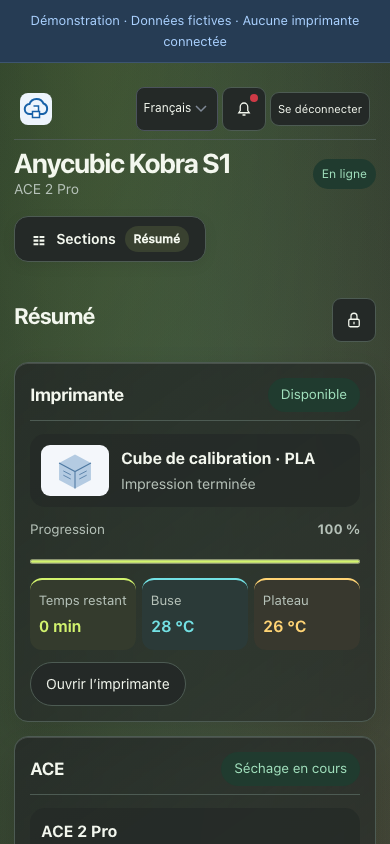
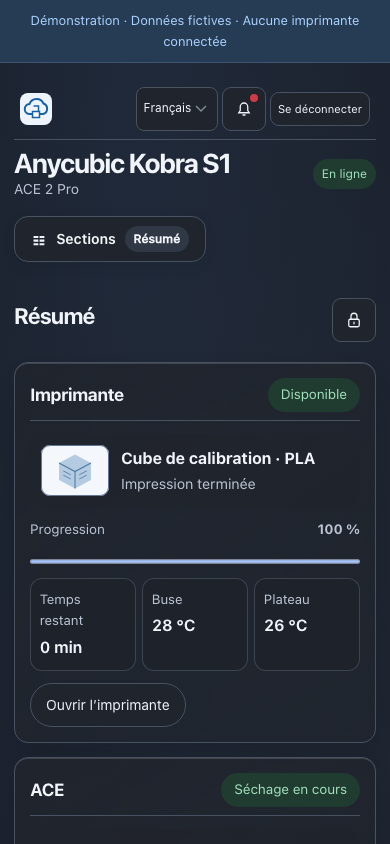
Recomposer la palette et les onglets de Prisme
Fixes #281

diff --git a/web/css/workshop-styles.css b/web/css/workshop-styles.css
@@ -117,14 +117,12 @@
 
 /* Les surfaces restent assez opaques pour lire les mesures au-dessus des reflets. */
 :root[data-style="prism"] {
-  --bg: light-dark(#e9eee5, #0e1110);
-  --surface: light-dark(#fcfdf9, #242927);
-  --text: light-dark(#19241d, #f3f7ee);
-  --muted: light-dark(#46584c, #b6c2b9);
-  --line: light-dark(#b5c5b7, #4d5b53);
-  --accent: light-dark(#426418, #d2f36e);
-  --prism-cyan: light-dark(#12656c, #73e1e4);
-  --prism-amber: light-dark(#805016, #ffd475);
+  --bg: light-dark(#eef1f6, #101217);
+  --surface: light-dark(#fcfdff, #20242c);
+  --text: light-dark(#1a2333, #f1f4f9);
+  --muted: light-dark(#4c596c, #bcc5d4);
+  --line: light-dark(#c5cfdd, #485261);
+  --accent: light-dark(#2857a0, #a4c4ff);
   --panel-radius: 20px;
   --prism-glass: linear-gradient(145deg,
     color-mix(in srgb, var(--surface) 82%, transparent),
@@ -134,10 +132,8 @@
 [data-style="prism"] body {
   background-color: var(--bg);
   background-image:
-    radial-gradient(ellipse at 26% 0%, light-dark(#b8ce827d, #8dab2a47), transparent 34rem),
-    radial-gradient(ellipse at 48% 42%, light-dark(#9fd7d68a, #187f8a53), transparent 37rem),
-    radial-gradient(ellipse at 91% 80%, light-dark(#f3ca8d78, #8a4c2854), transparent 34rem),
-    radial-gradient(ellipse at 68% 95%, light-dark(#d7bbd570, #7c43604f), transparent 32rem);
+    radial-gradient(ellipse at 36% 0%, light-dark(#a6c4ee44, #5076b035), transparent 42rem),
+    radial-gradient(ellipse at 90% 62%, light-dark(#fff9, #a9b8cc0e), transparent 38rem);
   background-repeat: no-repeat;
   background-size: 100% max(100%, 52rem);
 }
@@ -159,6 +155,54 @@
   background: linear-gradient(130deg, color-mix(in srgb, var(--accent) 24%, var(--surface)), var(--surface));
   box-shadow: inset 0 1px 0 rgb(255 255 255 / .19), 0 2px 10px rgb(0 0 0 / .13);
 }
+/* Les groupes restent nommés pour les lecteurs d’écran et occupent une seule rangée au bureau. */
+@media (min-width: 1191px) {
+  [data-style="prism"] #atelier-tabs:has(> .atelier-nav-group) {
+    display: flex;
+    flex-wrap: wrap;
+    align-items: center;
+    justify-content: center;
+    gap: 8px;
+    width: fit-content;
+    max-width: 100%;
+    margin: 8px auto 14px;
+    padding: 0;
+    border: 0;
+    background: none;
+    box-shadow: none;
+    backdrop-filter: none;
+  }
+  [data-style="prism"] #atelier-tabs .atelier-nav-label { display: none; }
+  [data-style="prism"] #atelier-tabs .atelier-nav-group,
+  [data-style="prism"] #atelier-tabs .atelier-nav-group + .atelier-nav-group {
+    display: flex;
+    gap: 2px;
+    padding: 3px;
+    border: 1px solid var(--line);
+    border-radius: 100px;
+    background: var(--prism-glass);
+    box-shadow: inset 0 1px 0 rgb(255 255 255 / .1);
+  }
+  [data-style="prism"] #atelier-tabs:has(> .atelier-nav-group) .atelier-nav-group > button {
+    width: auto;
+    min-height: 44px;
+    flex-direction: row;
+    justify-content: center;
+    padding-inline: clamp(8px, .85vw, 16px);
+    white-space: nowrap;
+  }
+  [data-style="prism"] #atelier-tabs .atelier-nav-group > button > span { white-space: nowrap; }
+  [data-style="prism"] #atelier-tabs .atelier-nav-group:has(> button:only-of-type) {
+    padding: 0;
+    border-color: transparent;
+    background: none;
+    box-shadow: none;
+  }
+  [data-style="prism"] #atelier-tabs .atelier-nav-group > button:only-of-type:not([aria-current="page"]) {
+    border-color: var(--line);
+    background: var(--prism-glass);
+  }
+}
 [data-style="prism"] .summary-grid > section {
   padding: clamp(15px, 2.5vw, 29px);
   gap: clamp(12px, 1.7vw, 20px);
@@ -179,18 +223,15 @@
   gap: 6px;
 }
 [data-style="prism"] .summary-values > div {
-  --metric-tone: var(--accent);
   min-width: 0;
   padding: .65rem .55rem;
   border-radius: 12px;
-  border-block-start: 2px solid var(--metric-tone);
-  background: color-mix(in srgb, var(--metric-tone) 9%, var(--surface));
+  border: 1px solid color-mix(in srgb, var(--line) 70%, transparent);
+  background: color-mix(in srgb, var(--surface) 90%, var(--bg));
   overflow-wrap: anywhere;
 }
-[data-style="prism"] .summary-values > div:nth-child(2) { --metric-tone: var(--prism-cyan); }
-[data-style="prism"] .summary-values > div:nth-child(3) { --metric-tone: var(--prism-amber); }
 [data-style="prism"] .summary-values dd {
-  color: var(--metric-tone);
+  color: var(--text);
   font-size: clamp(1rem, 1.65vw, 1.45rem);
   font-variant-numeric: tabular-nums;
 }

diff --git a/screenshots/README.md b/screenshots/README.md
@@ -27,12 +27,12 @@ Captures de la démonstration authentifiée, produites avec `scripts/capture_dem
 | [20-supervision-sombre.png](20-supervision-sombre.png) | Supervision en mode sombre. |
 | [21-resume-mobile.png](21-resume-mobile.png) | Résumé sur téléphone. |
 | [22-detail-supervision.png](22-detail-supervision.png) | Détail des relevés dans Parc et santé. |
-| [23-prisme-sombre.png](23-prisme-sombre.png) | Prisme sur ordinateur, en mode sombre. |
+| [23-prisme-sombre.png](23-prisme-sombre.png) | Prisme sur ordinateur à 1 920 × 1 080 px, en mode sombre. |
 | [24-prisme-mobile.png](24-prisme-mobile.png) | Prisme sur téléphone, en mode sombre. |
 
 Pour les refaire : installer les dépendances de développement et Chromium Playwright, puis lancer `node scripts/capture_demo.cjs` depuis la racine. Le script démarre uniquement `app/demo.py --auth`, crée un fichier temporaire de mot de passe fictif et ferme ce serveur après capture. `UI_PYTHON` permet de choisir l’interpréteur Python du projet. Aucun moteur Docker n’est nécessaire.
 
-La capture de session présente deux noms d’imprimantes fictifs pour illustrer le sélecteur. Le navigateur des captures utilise le français. Les captures de bureau mesurent 1 440 × 1 000 px. La vue mobile mesure 390 × 844 px. Ne jamais utiliser un compte réel pour produire les images publiques.
+La capture de session présente deux noms d’imprimantes fictifs pour illustrer le sélecteur. Le navigateur des captures utilise le français. Les captures de bureau mesurent 1 440 × 1 000 px, avec une vue de Prisme à 1 920 × 1 080 px. La vue mobile mesure 390 × 844 px. Ne jamais utiliser un compte réel pour produire les images publiques.
 
 ## Comparaison historique des styles conservés
 

diff --git a/docs/THEMES.md b/docs/THEMES.md
@@ -14,7 +14,7 @@ Dans **Réglages → Apparence**, choisir l’un des sept styles dans la liste. 
 | Aurore | Tableau bento avec machine, travail, températures et détails. | Les cartes se déplacent par glissement ou par commandes haut/bas; l’ordre est mémorisé localement et peut être réinitialisé. |
 | Laboratoire | Cartes de supervision plus espacées sur grand écran. | Les graphiques s’adaptent à la largeur disponible. |
 | Verrière | Panneaux translucides et cartes aérées. | Les commandes de navigation restent regroupées par usage. |
-| Prisme | Surfaces fumées, reflets verts, cyan et ambrés, mesures en tuiles dans le Résumé. | La section active reste dans une pilule. Les cartes suivent la disposition enregistrée et se replient sur une colonne sur téléphone. |
+| Prisme | Surfaces graphite, reflets bleus et mesures en tuiles dans le Résumé. | Les onglets se regroupent en capsules sur ordinateur et la section active reste visible. Les cartes suivent la disposition enregistrée et se replient sur une colonne sur téléphone. |
 
 [Prisme sur ordinateur](../screenshots/23-prisme-sombre.png) · [Prisme sur téléphone](../screenshots/24-prisme-mobile.png).
 

diff --git a/CHANGELOG.md b/CHANGELOG.md
@@ -4,7 +4,7 @@
 
 - Garde l’état de chargement jusqu’à l’arrivée de l’aperçu. Prisme révèle alors l’image par une courte transition (#248).
 
-- Ajoute Prisme, un style aux panneaux de verre fumé et aux mesures en tuiles (#277).
+- Ajoute Prisme, un style aux panneaux graphite, aux reflets bleus et aux mesures en tuiles. Sa navigation de bureau regroupe les onglets en capsules (#277, #281).
 
 - Indique la source de fichiers active par un curseur à ressort. Ajoute un interrupteur en relief pour le relais des bobines et une pulsation pendant la préparation réelle du CSV. Anime les étoiles de l’évaluation et regroupe les liens du pied de page (#248).
 
